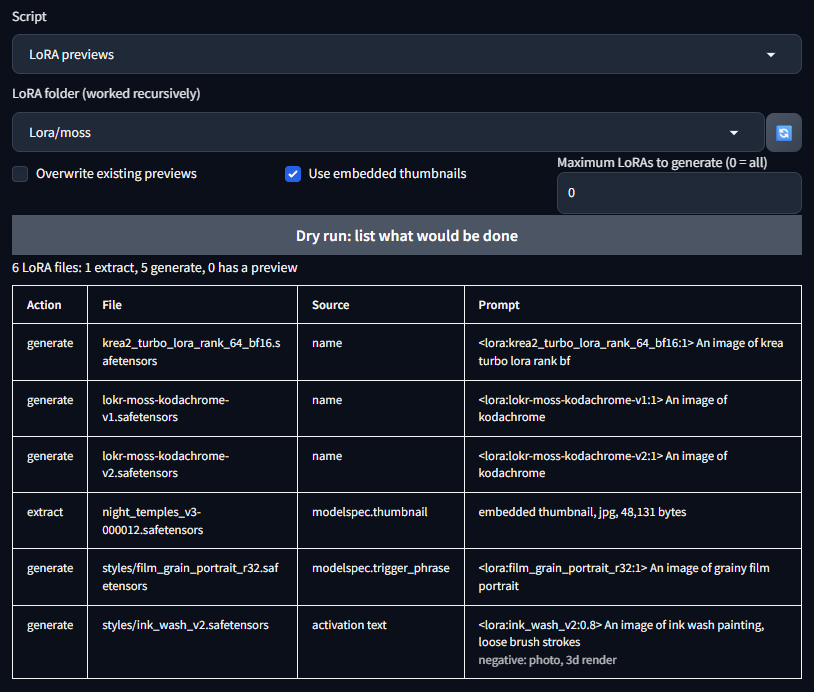
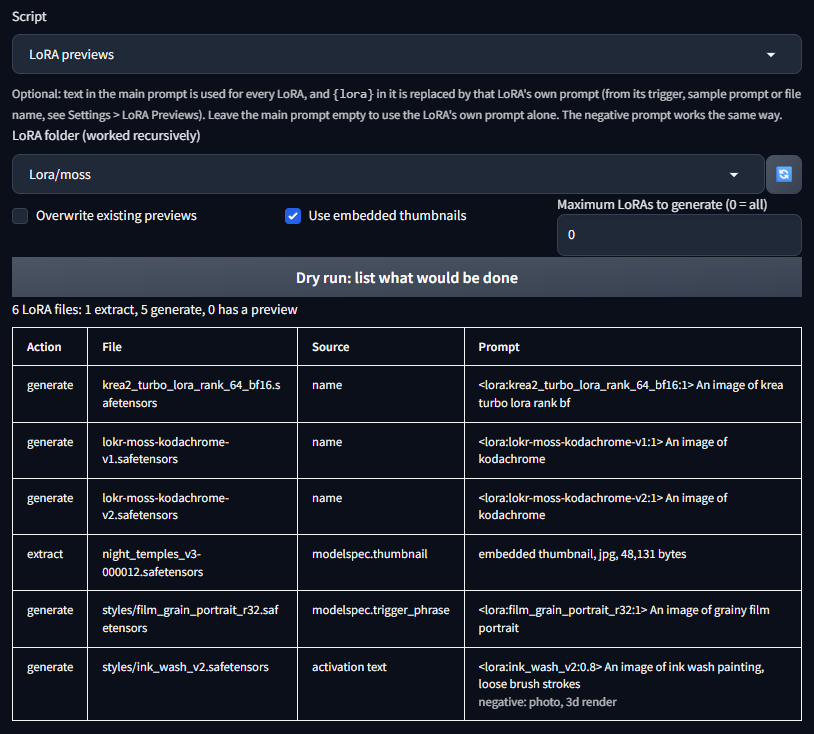
Main prompt with a {lora} wildcard
With text in the txt2img prompt box, that text is the prompt for every
LoRA of the run, and {lora} in it becomes the LoRA's own prompt from the
templates; {trigger}, {sample} and {name} give the bare values. With the
box empty, each LoRA gets its own prompt as before. The negative prompt
box works the same way. A placeholder with nothing to put in is dropped
with its comma.

The dry run reads both prompt boxes, a help line at the top of the panel
explains the rule, and the command-line dry run has --prompt and
--negative. README and panel screenshot updated.

diff --git a/style.css b/style.css
@@ -1,3 +1,9 @@
+.npv-help {
+    font-size: 0.9em;
+    opacity: 0.8;
+    margin: 0 0 0.5em 0;
+}
+
 .npv-table {
     width: 100%;
     border-collapse: collapse;

diff --git a/scripts/neo_previews_script.py b/scripts/neo_previews_script.py
@@ -128,11 +128,12 @@ def forge_alias(paths: list[str]):
     return alias
 
 
-def make_plan(folder: str, overwrite: bool, use_thumbnails: bool) -> list[plan.Item]:
+def make_plan(folder: str, overwrite: bool, use_thumbnails: bool, main_prompt: str = "", main_negative: str = "") -> list[plan.Item]:
     paths = scan.walk(folder)
     alias = forge_alias(paths)
     templates = templates_from_opts()
-    return [plan.plan_one(path, templates, overwrite=bool(overwrite), use_thumbnails=bool(use_thumbnails), alias=alias) for path in paths]
+    options = {"overwrite": bool(overwrite), "use_thumbnails": bool(use_thumbnails), "alias": alias, "main_prompt": main_prompt or "", "main_negative": main_negative or ""}
+    return [plan.plan_one(path, templates, **options) for path in paths]
 
 
 def _max_count(value) -> int:
@@ -142,12 +143,12 @@ def _max_count(value) -> int:
         return 0
 
 
-def dry_run(label, overwrite, use_thumbnails, max_count) -> str:
+def dry_run(label, overwrite, use_thumbnails, max_count, main_prompt="", main_negative="") -> str:
     folder = resolve_folder(label)
     if folder is None:
         return "<p>Choose a LoRA folder first.</p>"
     try:
-        items = make_plan(folder, overwrite, use_thumbnails)
+        items = make_plan(folder, overwrite, use_thumbnails, main_prompt, main_negative)
     except Exception as e:  # noqa: BLE001 - shown in the panel, traceback in the console
         import traceback
 
@@ -351,14 +352,35 @@ def generate(p, pending: list[plan.Item], result: report.RunResult, gallery: lis
 # ---------------------------------------------------------------- script
 
 
+HELP = (
+    "<p class='npv-help'>Optional: text in the main prompt is used for every LoRA, and <code>{lora}</code> in it is replaced by "
+    "that LoRA's own prompt (from its trigger, sample prompt or file name, see Settings &gt; LoRA Previews). "
+    "Leave the main prompt empty to use the LoRA's own prompt alone. The negative prompt works the same way.</p>"
+)
+
+PROMPT_IDS = {"txt2img_prompt": "main_prompt", "txt2img_neg_prompt": "main_negative"}
+
+
 class LoraPreviewsScript(scripts.Script):
+    def __init__(self):
+        super().__init__()
+        # The txt2img prompt boxes, caught as they are built (before ui()), so the dry run can read them.
+        self.main_prompt = None
+        self.main_negative = None
+
     def title(self):
         return TITLE
 
     def show(self, is_img2img):
         return not is_img2img
 
+    def after_component(self, component, **kwargs):
+        attribute = PROMPT_IDS.get(getattr(component, "elem_id", None))
+        if attribute:
+            setattr(self, attribute, component)
+
     def ui(self, is_img2img):
+        gr.HTML(HELP, elem_id=self.elem_id("help"))
         with gr.Row(elem_id=self.elem_id("folder_row")):
             folder = gr.Dropdown(label="LoRA folder (worked recursively)", choices=refresh_folders(), value=None, elem_id=self.elem_id("folder"))
             refresh = ToolButton(value=refresh_symbol, elem_id=self.elem_id("refresh"), tooltip="Refresh the folder list")
@@ -374,7 +396,11 @@ class LoraPreviewsScript(scripts.Script):
             return gr.update(choices=choices, value=current if current in choices else None)
 
         refresh.click(fn=on_refresh, inputs=[folder], outputs=[folder], show_progress=False)
-        dry.click(fn=dry_run, inputs=[folder, overwrite, use_thumbnails, max_count], outputs=[output])
+        prompt_boxes = [box for box in (self.main_prompt, self.main_negative) if box is not None]
+        if len(prompt_boxes) == 2:
+            dry.click(fn=dry_run, inputs=[folder, overwrite, use_thumbnails, max_count, *prompt_boxes], outputs=[output])
+        else:  # prompt boxes not found: the dry run shows the LoRAs' own prompts
+            dry.click(fn=dry_run, inputs=[folder, overwrite, use_thumbnails, max_count], outputs=[output])
         return [folder, overwrite, use_thumbnails, max_count]
 
     def run(self, p, label, overwrite, use_thumbnails, max_count):
@@ -382,7 +408,7 @@ class LoraPreviewsScript(scripts.Script):
         if folder is None:
             return Processed(p, [], p.seed, info="LoRA previews: choose a LoRA folder in the script panel.")
 
-        items = make_plan(folder, overwrite, use_thumbnails)
+        items = make_plan(folder, overwrite, use_thumbnails, p.prompt, p.negative_prompt)
         to_extract = [i for i in items if i.action == plan.EXTRACT]
         pending, later = report.limited(items, _max_count(max_count))
         result = report.RunResult(later=len(later))

diff --git a/neo_previews/prompt.py b/neo_previews/prompt.py
@@ -268,6 +268,45 @@ def choose(lora_path: str, metadata: dict, templates: Templates) -> Prompt:
     return Prompt(source=source, text=text, negative=negative, weight=weight, values=values)
 
 
+WILDCARD = "{lora}"
+
+
+def _substitute(text: str, values: dict) -> str:
+    """Plain replace of {key} placeholders; the user's own spacing and line breaks stay.
+
+    An empty value takes one neighbouring comma with it, so "blurry, {lora}"
+    with nothing for {lora} gives "blurry", not "blurry,".
+    """
+    for key, value in values.items():
+        placeholder = re.escape("{" + key + "}")
+        if not value:
+            text = re.sub(r"[ \t]*,[ \t]*" + placeholder + r"|" + placeholder + r"[ \t]*,[ \t]*", "", text)
+        text = re.sub(placeholder, lambda _m, v=value: v, text)
+    return text.strip()
+
+
+def with_main_prompt(chosen: Prompt, main_prompt: str = "", main_negative: str = "") -> Prompt:
+    """Use the txt2img prompt boxes when they hold text.
+
+    A non-empty main prompt is the prompt for every LoRA. {lora} in it becomes
+    the LoRA's own prompt from the templates (chosen.text); {trigger},
+    {sample} and {name} give the bare values. The negative prompt works the
+    same way, with {lora} becoming the LoRA's own negative. An empty box
+    leaves the templates' result as it is.
+    """
+    main_prompt = (main_prompt or "").strip()
+    main_negative = (main_negative or "").strip()
+    if not main_prompt and not main_negative:
+        return chosen
+    text, negative, source = chosen.text, chosen.negative, chosen.source
+    if main_prompt:
+        text = _substitute(main_prompt, {"lora": chosen.text, **chosen.values})
+        source = f"main prompt, {WILDCARD} = {chosen.source}" if WILDCARD in main_prompt else "main prompt"
+    if main_negative:
+        negative = _substitute(main_negative, {"lora": chosen.negative, **chosen.values})
+    return Prompt(source=source, text=text, negative=negative, weight=chosen.weight, values=chosen.values)
+
+
 def format_weight(weight: float) -> str:
     return f"{weight:g}"
 

diff --git a/neo_previews/plan.py b/neo_previews/plan.py
@@ -42,8 +42,20 @@ def default_alias(path: str, metadata: dict) -> str:
     return metadata.get("ss_output_name") or os.path.splitext(os.path.basename(path))[0]
 
 
-def plan_one(path: str, templates: prompts.Templates, *, overwrite: bool = False, use_thumbnails: bool = True, alias: Callable[[str, dict], str | None] = default_alias) -> Item:
-    """alias returns the name for <lora:NAME:...>, or None when Forge cannot load the file."""
+def plan_one(
+    path: str,
+    templates: prompts.Templates,
+    *,
+    overwrite: bool = False,
+    use_thumbnails: bool = True,
+    alias: Callable[[str, dict], str | None] = default_alias,
+    main_prompt: str = "",
+    main_negative: str = "",
+) -> Item:
+    """alias returns the name for <lora:NAME:...>, or None when Forge cannot load the file.
+
+    main_prompt / main_negative: the txt2img prompt boxes; see prompt.with_main_prompt.
+    """
     metadata = scan.read_metadata(path)
     existing = scan.existing_preview(path, metadata)
     if existing and not overwrite:
@@ -54,7 +66,7 @@ def plan_one(path: str, templates: prompts.Templates, *, overwrite: bool = False
         if found:
             return Item(path, EXTRACT, existing=existing, thumbnail=found, target=thumbnail.target_path(path, found[1]))
 
-    chosen = prompts.choose(path, metadata, templates)
+    chosen = prompts.with_main_prompt(prompts.choose(path, metadata, templates), main_prompt, main_negative)
     name = alias(path, metadata)
     if name is None:
         return Item(path, UNLISTED, existing=existing, prompt=chosen)

diff --git a/neo_previews/__main__.py b/neo_previews/__main__.py
@@ -28,6 +28,8 @@ def main(argv=None) -> int:
     parser.add_argument("--sample-template", default=prompt.Templates.sample)
     parser.add_argument("--name-template", default=prompt.Templates.name)
     parser.add_argument("--negative-template", default=prompt.Templates.negative)
+    parser.add_argument("--prompt", default="", help="as the main prompt box: used for every LoRA, {lora} becomes the LoRA's own prompt")
+    parser.add_argument("--negative", default="", help="as the main negative prompt box: {lora} becomes the LoRA's own negative")
     parser.add_argument("--width", type=int, default=160, help="cut prompts to this many characters (0 = never)")
     args = parser.parse_args(argv)
 
@@ -43,7 +45,7 @@ def main(argv=None) -> int:
         return 2
 
     templates = prompt.Templates(trigger=args.trigger_template, sample=args.sample_template, name=args.name_template, negative=args.negative_template, default_weight=args.weight)
-    items = plan.plan_folder(folder, templates, overwrite=args.overwrite, use_thumbnails=not args.no_thumbnails)
+    items = plan.plan_folder(folder, templates, overwrite=args.overwrite, use_thumbnails=not args.no_thumbnails, main_prompt=args.prompt, main_negative=args.negative)
 
     counts: dict[str, int] = {}
     sources: dict[str, int] = {}

diff --git a/README.md b/README.md
@@ -49,7 +49,7 @@ Only the LoRAs for the loaded model can be applied, so choose a folder that hold
 
 Each preview is one image made with your current txt2img settings, with these changes:
 
-- the prompt and negative prompt are the LoRA's own (see below), and prompt styles are not applied;
+- the prompt and negative prompt are the LoRA's own, or your main prompt with the LoRA's own prompt in it (see below), and prompt styles are not applied;
 - hires fix is off;
 - batch size and batch count are 1;
 - every preview in a run uses the same seed, so they can be compared. With seed -1, one random seed is picked for the whole run.
@@ -82,6 +82,20 @@ A street photograph of a woman at a café table, {name}
 ```
 
 Every template can use `{trigger}`, `{sample}` and `{name}`. Braces that are not one of these three are left as they are.
+
+### Your own prompt for a whole folder
+
+Leave the main prompt box empty and each LoRA gets its own prompt as above. Write something in it and that text is the prompt for every LoRA of the run, with `{lora}` replaced by each LoRA's own prompt:
+
+```text
+A street photograph of a woman at a café table, {lora}, 35mm
+```
+
+With the default templates `{lora}` becomes "An image of kodachrome" and the like. For a prompt of your own, the bare values often read better: `{trigger}`, `{sample}` and `{name}` work in the main prompt too, and a placeholder with nothing to put in is dropped along with its comma. A prompt without any placeholder is used as it is, so all previews show the same scene. The LoRA's `<lora:...>` tag is always added in front, and other `<lora:...>` tags in your prompt, such as a speed LoRA, apply to every preview.
+
+The negative prompt box works the same way: empty, each LoRA gets its own negative; with text, that text is used, and `{lora}` in it becomes the LoRA's own negative.
+
+The dry run shows the prompts as they will be, from what is in the prompt boxes at that moment.
 
 ## A LoRA for another model
 
@@ -124,7 +138,7 @@ The extension holds a command-line version of the dry run. It needs Python 3.10 
 python -m neo_previews <LoRA folder>
 ```
 
-It lists what would be done for each LoRA and the prompt it would use. Add `--extract` to save the thumbnails the files carry, which needs no model. `--help` lists the other options.
+It lists what would be done for each LoRA and the prompt it would use. `--prompt` and `--negative` stand for the main prompt boxes. Add `--extract` to save the thumbnails the files carry, which needs no model. `--help` lists the other options.
 
 ## License
 
